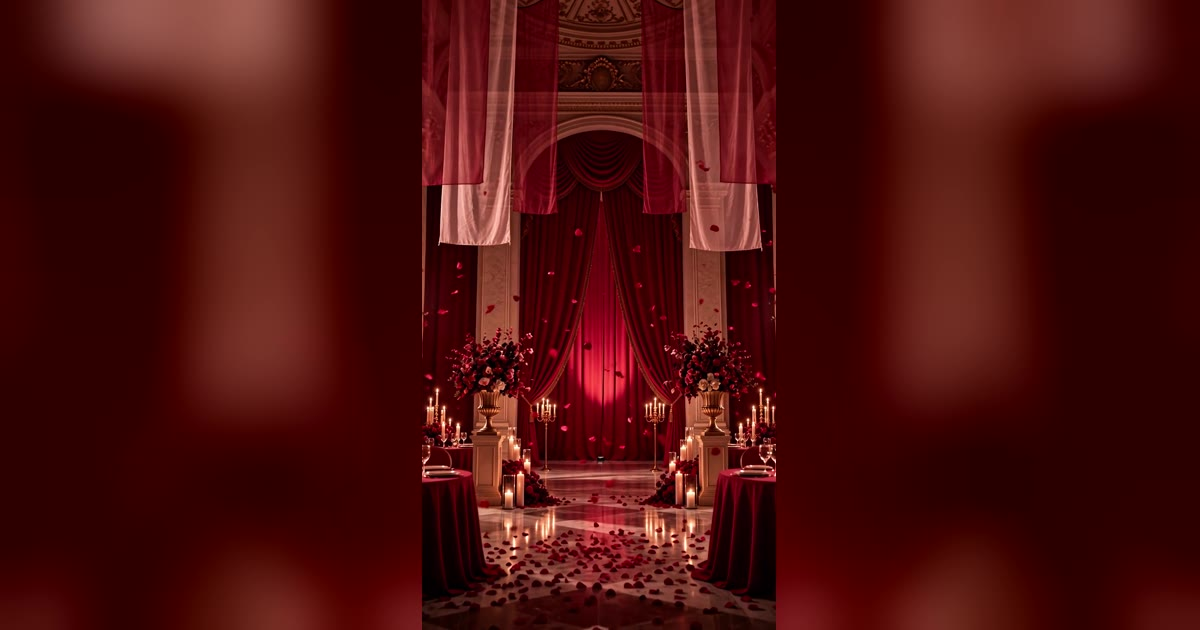
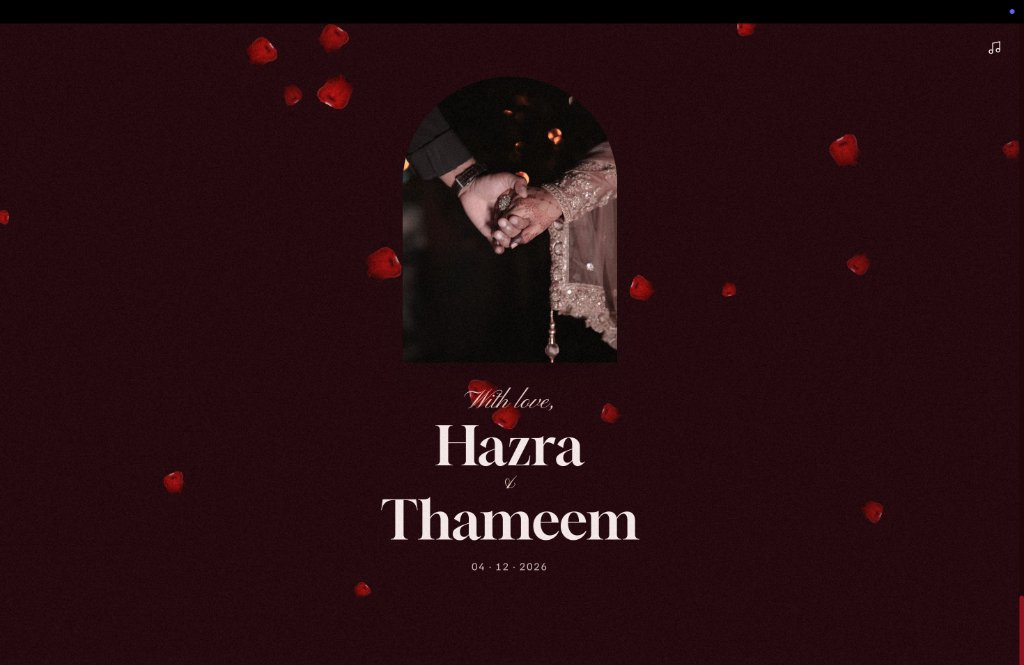
feat: update social share open graph meta image to wedding card

diff --git a/index.html b/index.html
@@ -24,11 +24,11 @@
   <meta property="og:title" content="Hazra &amp; Thameem — Wedding Invitation">
   <meta property="og:description"
     content="You are cordially invited to celebrate the wedding of Hazra &amp; Thameem on Friday, 4 December 2026 at K hills resort, Farook.">
-  <meta property="og:image" content="https://hazra-thameem-wedding.vercel.app/media/og.jpg">
-  <meta property="og:image:secure_url" content="https://hazra-thameem-wedding.vercel.app/media/og.jpg">
+  <meta property="og:image" content="https://hazra-thameem-wedding.vercel.app/media/og.jpg?v=2">
+  <meta property="og:image:secure_url" content="https://hazra-thameem-wedding.vercel.app/media/og.jpg?v=2">
   <meta property="og:image:type" content="image/jpeg">
-  <meta property="og:image:width" content="1200">
-  <meta property="og:image:height" content="630">
+  <meta property="og:image:width" content="1024">
+  <meta property="og:image:height" content="665">
   <meta property="og:image:alt" content="Hazra &amp; Thameem Wedding Invitation">
   <meta property="og:locale" content="en_IN">
 
@@ -38,7 +38,7 @@
   <meta name="twitter:title" content="Hazra &amp; Thameem — Wedding Invitation">
   <meta name="twitter:description"
     content="You are cordially invited to celebrate the wedding of Hazra &amp; Thameem on Friday, 4 December 2026 at K hills resort, Farook.">
-  <meta name="twitter:image" content="https://hazra-thameem-wedding.vercel.app/media/og.jpg">
+  <meta name="twitter:image" content="https://hazra-thameem-wedding.vercel.app/media/og.jpg?v=2">
   <meta name="twitter:image:alt" content="Hazra &amp; Thameem Wedding Invitation">
 
   <!-- Mobile & PWA Configuration -->

diff --git a/src/data/invitationData.js b/src/data/invitationData.js
@@ -74,7 +74,7 @@ export const invitationData = {
     calendarButtonText: "Add to calendar",
     // 9 words revealed progressively as the wax seal is held down:
     wordsLine1: ["Friday"],
-    wordsLine2: ["4","-","1","2","-", "2","0","2","6"],
+    wordsLine2: ["4", "-", "1", "2", "-", "2", "0", "2", "6"],
   },
 
   // ----------------------------------------------------------------------------
@@ -132,7 +132,7 @@ export const invitationData = {
     spotlightHint: "Move your finger to light the venue",
     directionsButtonText: "Directions",
     calendarButtonText: "Add to calendar",
-    parkingNote: "Large parking area available. Wheelchair accessible.",
+    parkingNote: "Wheelchair accessible.",
   },
 
   // ----------------------------------------------------------------------------
